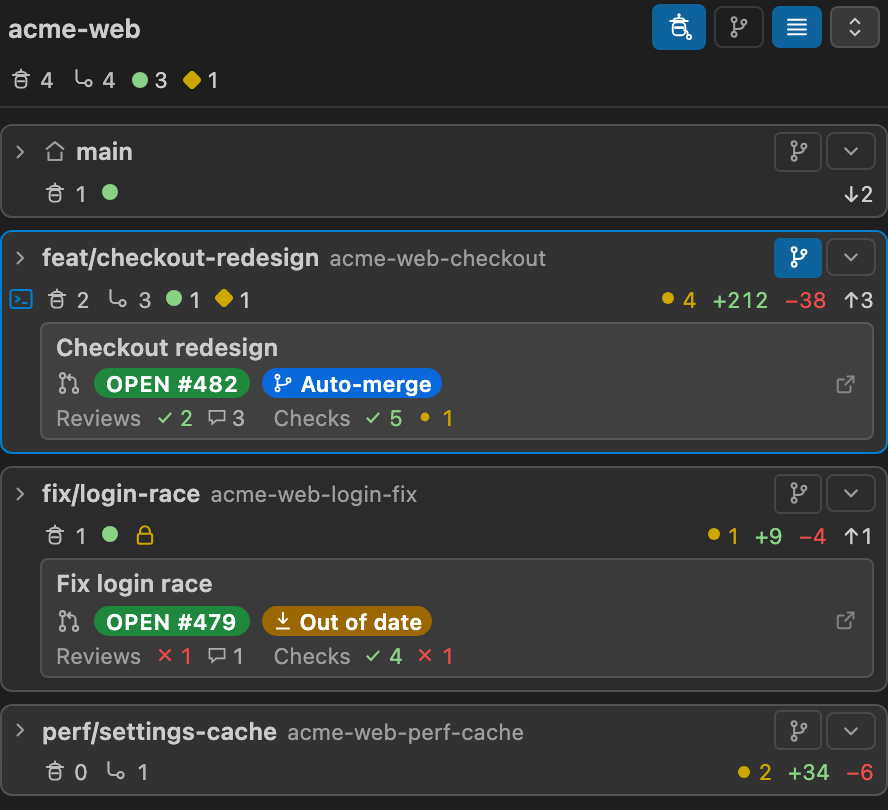
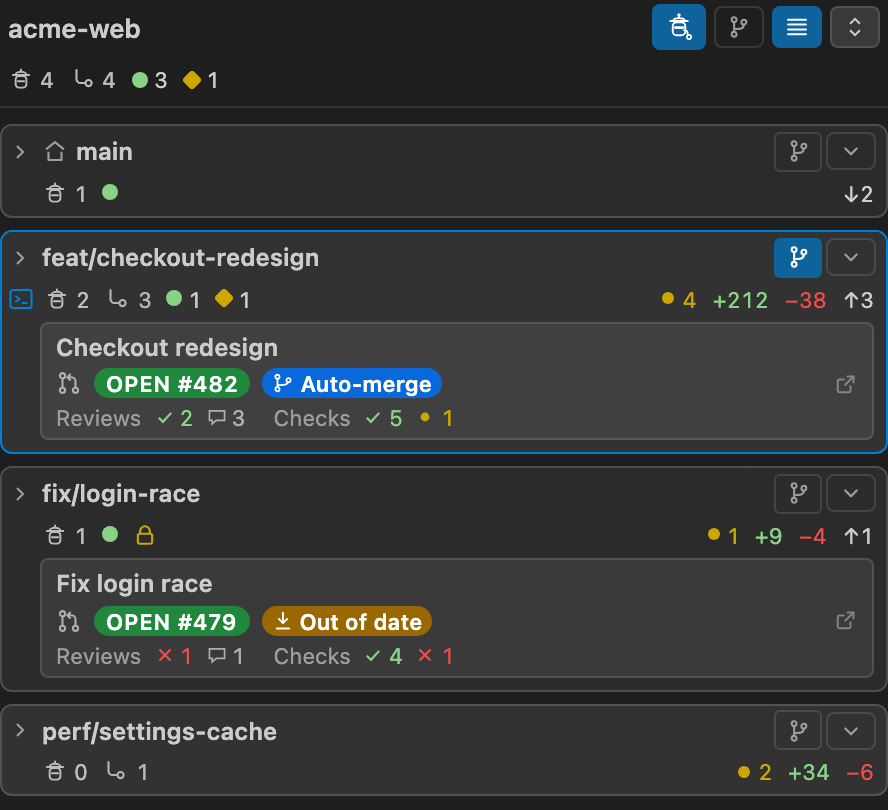
Compact view: the worktree's own name as a labelled line in the card
A card is titled by its branch, which is the right thing to scan a column of
them for, but that left "which directory is this" unanswerable from the card.
The folder name was briefly a bare second name beside the branch; two names side
by side in a header is a guessing game about which is which, so it moves into
the body as a labelled Worktree line with the full path on hover. The label
takes the muted colour and the name the foreground - a directory name is
something you may be reading off to type elsewhere.

Changed region(s): [[0.3041, 0.8951, 0.6081, 0.9259], [0.3649, 0.3086, 0.6081, 0.3395], [0.2432, 0.5864, 0.4561, 0.6173]]

diff --git a/media/panel.js b/media/panel.js
@@ -958,30 +958,29 @@
   }
 
   /**
-   * The worktree's own folder name, beside the branch when the two differ. The
-   * card is titled by the branch (worktreeData sends `name` as the branch when
-   * there is one), which is the right primary key - but a worktree's directory
-   * can be called anything, and when it is, "which folder is this" is not
-   * answerable from the card at all.
+   * The worktree's own directory name, as a labelled line in the card. The header
+   * is titled by the branch - worktreeData sends `name` as the branch when there
+   * is one - which is the right thing to scan a column of cards for; this answers
+   * the other question, which directory on disk the card is, and it is labelled
+   * rather than left as a bare second name sitting next to the first.
    *
-   * Left off when it would only repeat: a folder named after its branch, which
-   * is what `claude -w` produces, and the primary worktree, whose folder is the
-   * repository already named at the top of the panel.
+   * The full path is the tooltip: the name alone does not say where among several
+   * repos' worktree directories this one lives.
    */
-  function folderNote(wt) {
-    if (wt.isPrimary) return "";
+  function worktreeNameRow(wt) {
     const base =
       String(wt.path || "")
         .split(/[\\/]/)
         .filter(Boolean)
         .pop() || "";
-    if (!base || base === wt.name) return "";
+    if (!base) return "";
     return (
-      '<span class="head-folder" data-tip="Worktree folder: ' +
+      '<div class="worktree-name" data-tip="' +
       esc(wt.path) +
-      '">' +
+      '"><span class="worktree-name-label">Worktree</span>' +
+      '<span class="worktree-name-value">' +
       esc(base) +
-      "</span>"
+      "</span></div>"
     );
   }
 
@@ -1251,7 +1250,6 @@
           '<span class="branch">' +
           esc(wt.name) +
           "</span>" +
-          folderNote(wt) +
           "</span>" +
           // The actions pinned to the header, held against the right edge and
           // kept on the name's first line however far the name wraps. Three
@@ -1301,6 +1299,7 @@
             : "") +
           prLine(wt.pr, true) +
           '<div class="card-body">' +
+          worktreeNameRow(wt) +
           debugRows +
           // The ways into the worktree - re-read it, search it, find a file in
           // it, debug it, open it in a window - and New agent at the far right.
@@ -1325,7 +1324,6 @@
         '<span class="branch">' +
         esc(wt.name) +
         "</span>" +
-        folderNote(wt) +
         editBranchBtn +
         ghLink +
         '<span class="badges">' +
@@ -1339,6 +1337,7 @@
         '<div class="meta-row">' +
         gitLine(wt.git, wt.path, wt.scmActive, false) +
         "</div>" +
+        worktreeNameRow(wt) +
         '<div class="agent-action-row">' +
         '<span class="row-lead">' +
         searchBtn +

diff --git a/media/panel.css b/media/panel.css
@@ -2203,19 +2203,30 @@ button.busy {
   min-width: 0;
   line-height: 1.35;
 }
-/* The worktree's folder name, when it differs from the branch the card is titled
-   by. Secondary weight and colour: it answers "which directory" for someone who
-   needs it, without competing with the branch, which is what the card is
-   scanned for. Inline, so it wraps with the name rather than beside a two-line
-   block. */
-.head-folder {
+/* The worktree's own directory name, labelled, as a line of the card rather than
+   a bare second name beside the branch. The label is the secondary half and takes
+   the muted colour; the name itself is content, so it takes the foreground - a
+   directory name is not decoration and 11px grey-on-grey is not readable enough
+   for something you might be copying. */
+.worktree-name {
+  display: flex;
+  align-items: baseline;
+  gap: 6px;
+  min-width: 0;
   font-size: 11px;
-  font-weight: 400;
+}
+.worktree-name-label {
+  flex: 0 0 auto;
   color: var(--vscode-descriptionForeground);
 }
-.card.compact .head-folder {
-  margin-left: 5px;
-  vertical-align: 0;
+.worktree-name-value {
+  color: var(--vscode-foreground);
+  overflow-wrap: break-word;
+  min-width: 0;
+}
+/* Indented to the branch name, like the rows above it. */
+.card.compact .worktree-name {
+  padding: 0 6px 4px 19px;
 }
 .card.compact .branch {
   display: inline;

diff --git a/docs/compact-view.md b/docs/compact-view.md
@@ -152,17 +152,20 @@ The dot fades while a pseudo-element ring expands, both animating only transform
 and opacity, so an infinite pulse stays on the compositor rather than repainting
 each frame.
 
-### The folder name
+### The worktree name
 
 The card is titled by the branch - `worktreeData` sends `name` as the branch when
-there is one - which is the right primary key. But a worktree's directory can be
-called anything, and when it is, "which folder is this" is not answerable from the
-card at all. So the folder name sits beside the branch in secondary weight and
-colour, derived in the webview from `wt.path` rather than added to the payload.
+there is one - which is the right thing to scan a column of cards for. Which
+*directory* the card is was then not answerable from it at all, so the card body
+carries a labelled `Worktree` line, derived in the webview from `wt.path` rather
+than added to the payload.
 
-It is left off where it would only repeat: a folder named after its branch, which
-is what `claude -w` produces, and the primary worktree, whose folder is the
-repository already named at the top of the panel.
+Labelled, and in the body, rather than a bare second name beside the branch: two
+names side by side in a header is a guessing game about which is which, and the
+directory is not what the card is scanned for. The label takes the muted colour
+and the name takes the foreground - a directory name is something you might be
+reading off to type somewhere, not decoration. The full path is the tooltip, since
+the name alone does not say which repo's worktree directory it sits in.
 
 ### Which card is outlined
 

diff --git a/MARKETPLACE.md b/MARKETPLACE.md
@@ -202,6 +202,9 @@ density button folds every card down.
   **New agent** are a row inside the card, right above its agents. Branch names get
   the width instead of a row of icons, and nothing needs the card expanded to be
   reached.
+- **The worktree's own name, labelled, inside the card.** Cards are titled by
+  their branch, which is what you scan for; the directory the worktree actually
+  lives in is a `Worktree` line in the body, with the full path on hover.
 - **No pills for things a glyph can say.** Your repository's own working directory
   gets a small house beside its name; a locked or detached worktree gets a padlock
   or a broken chain next to its agent counts. The row those words used to need is
